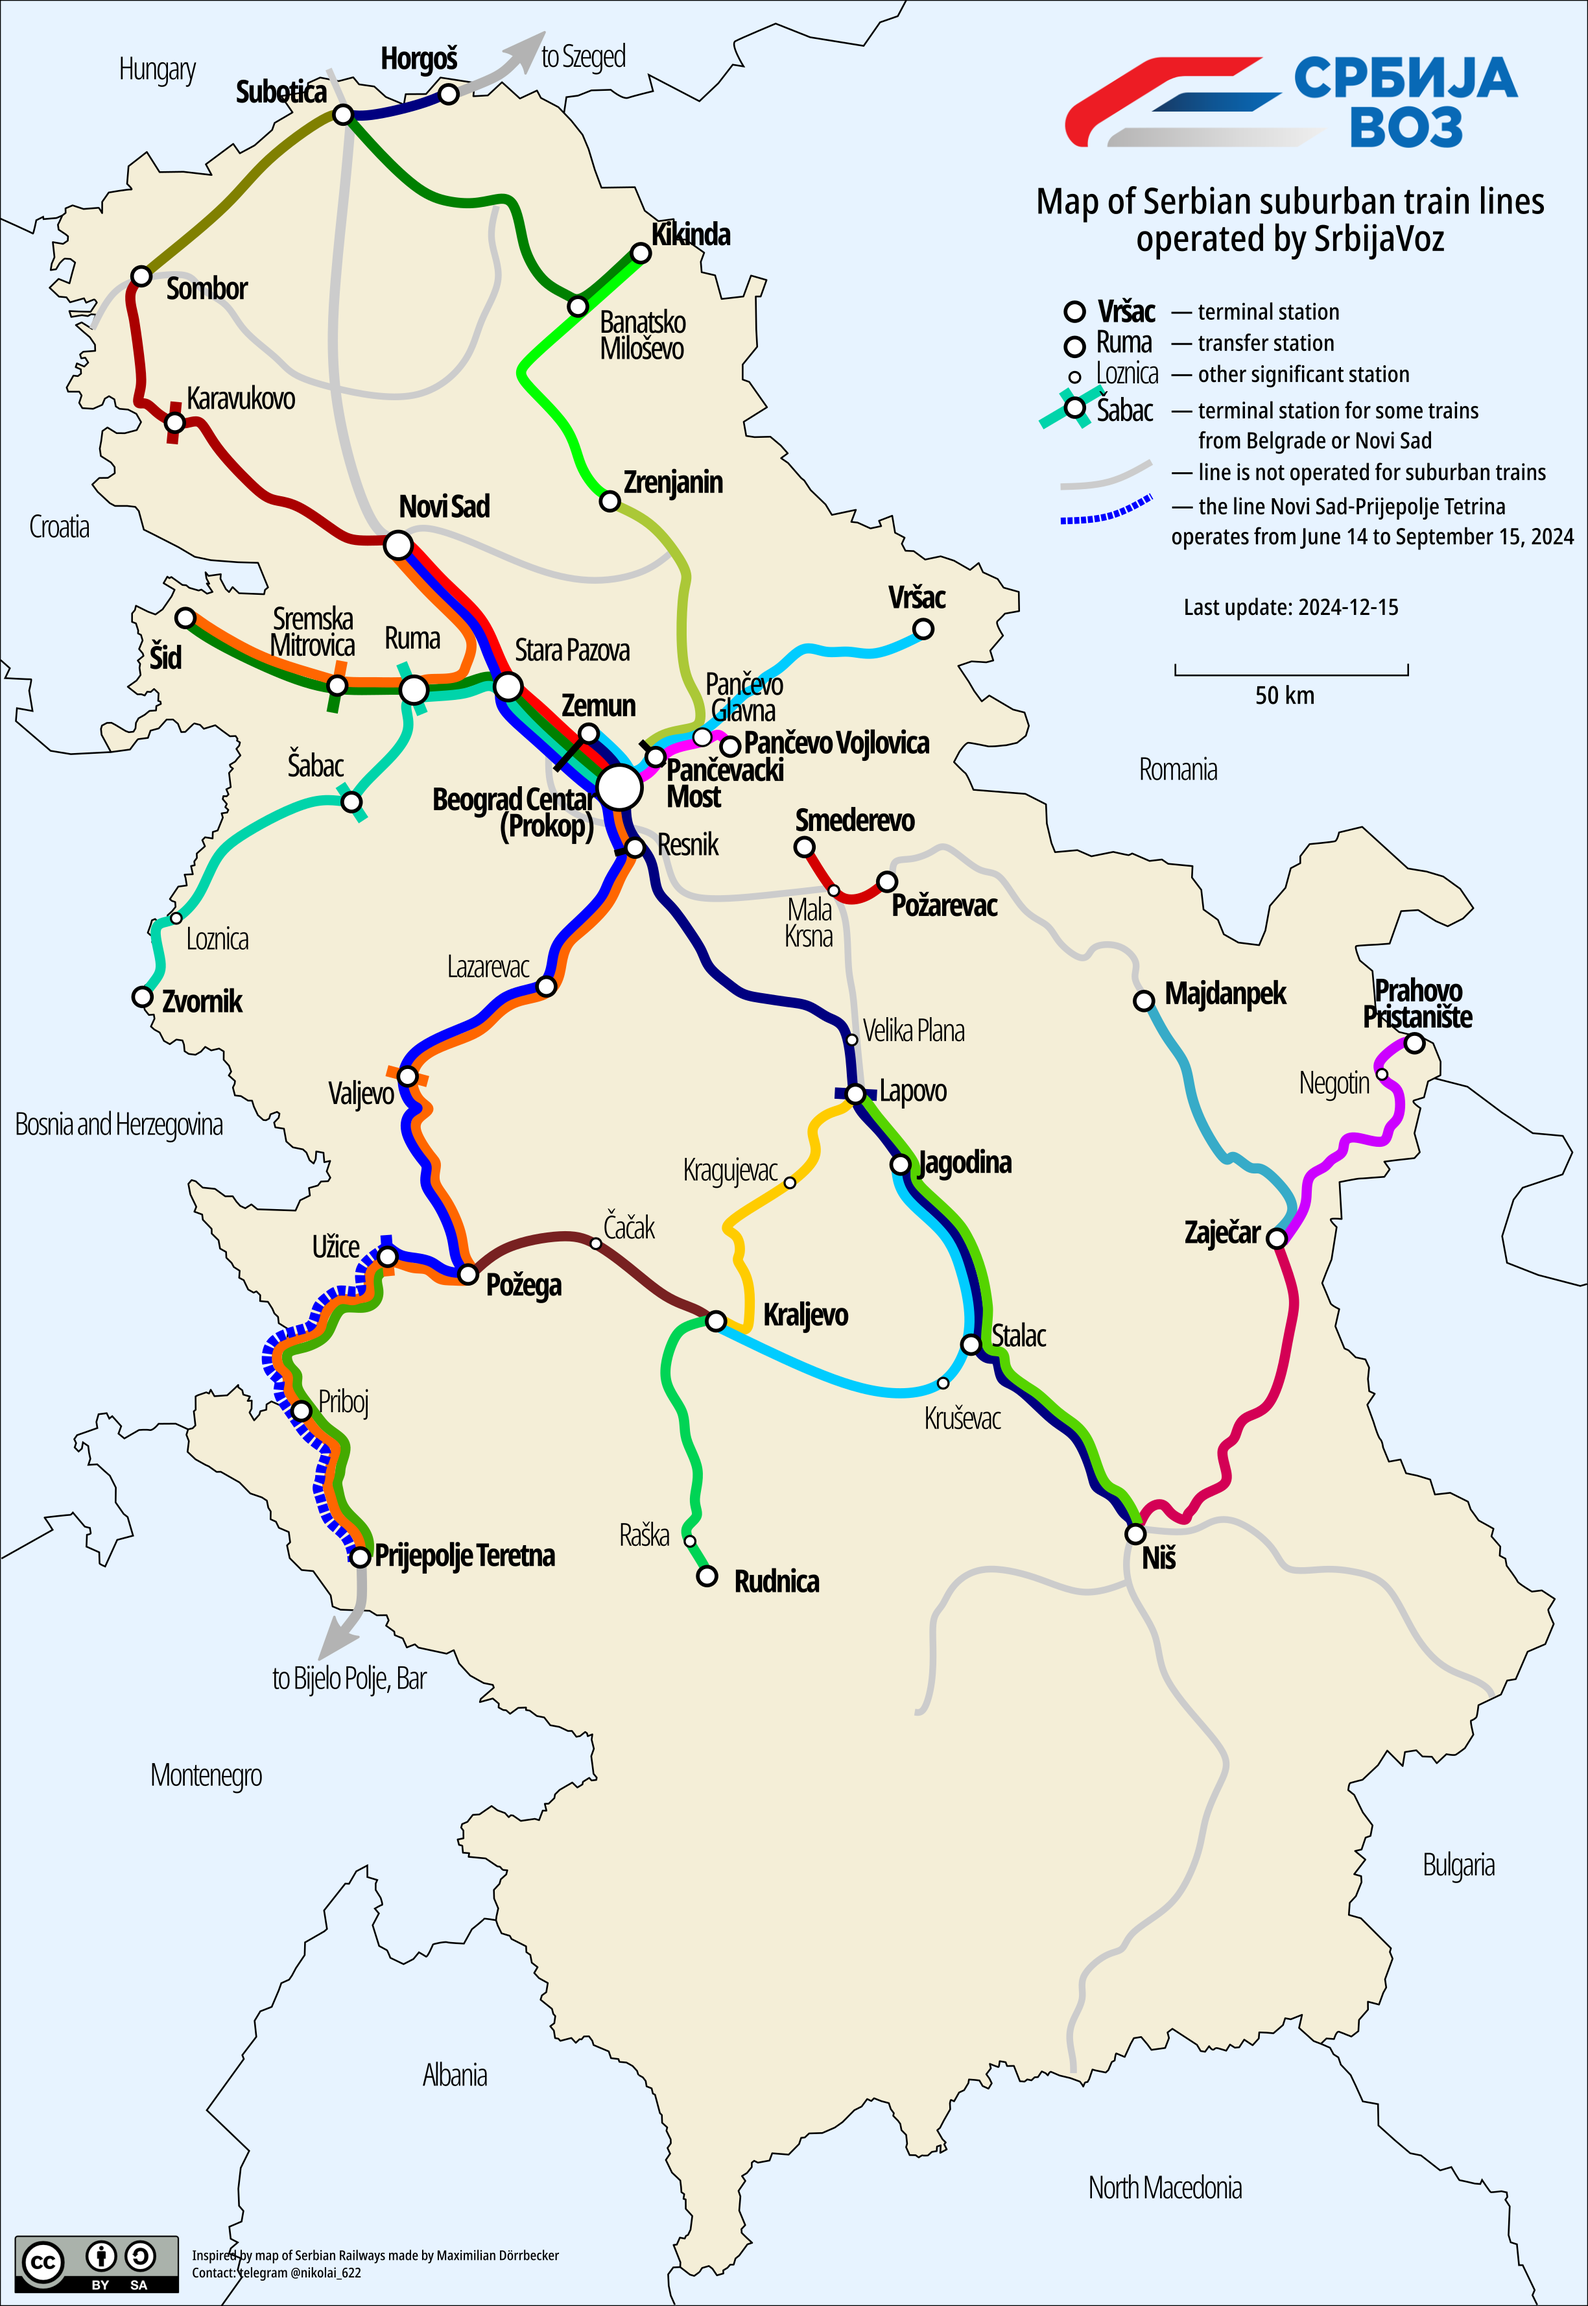
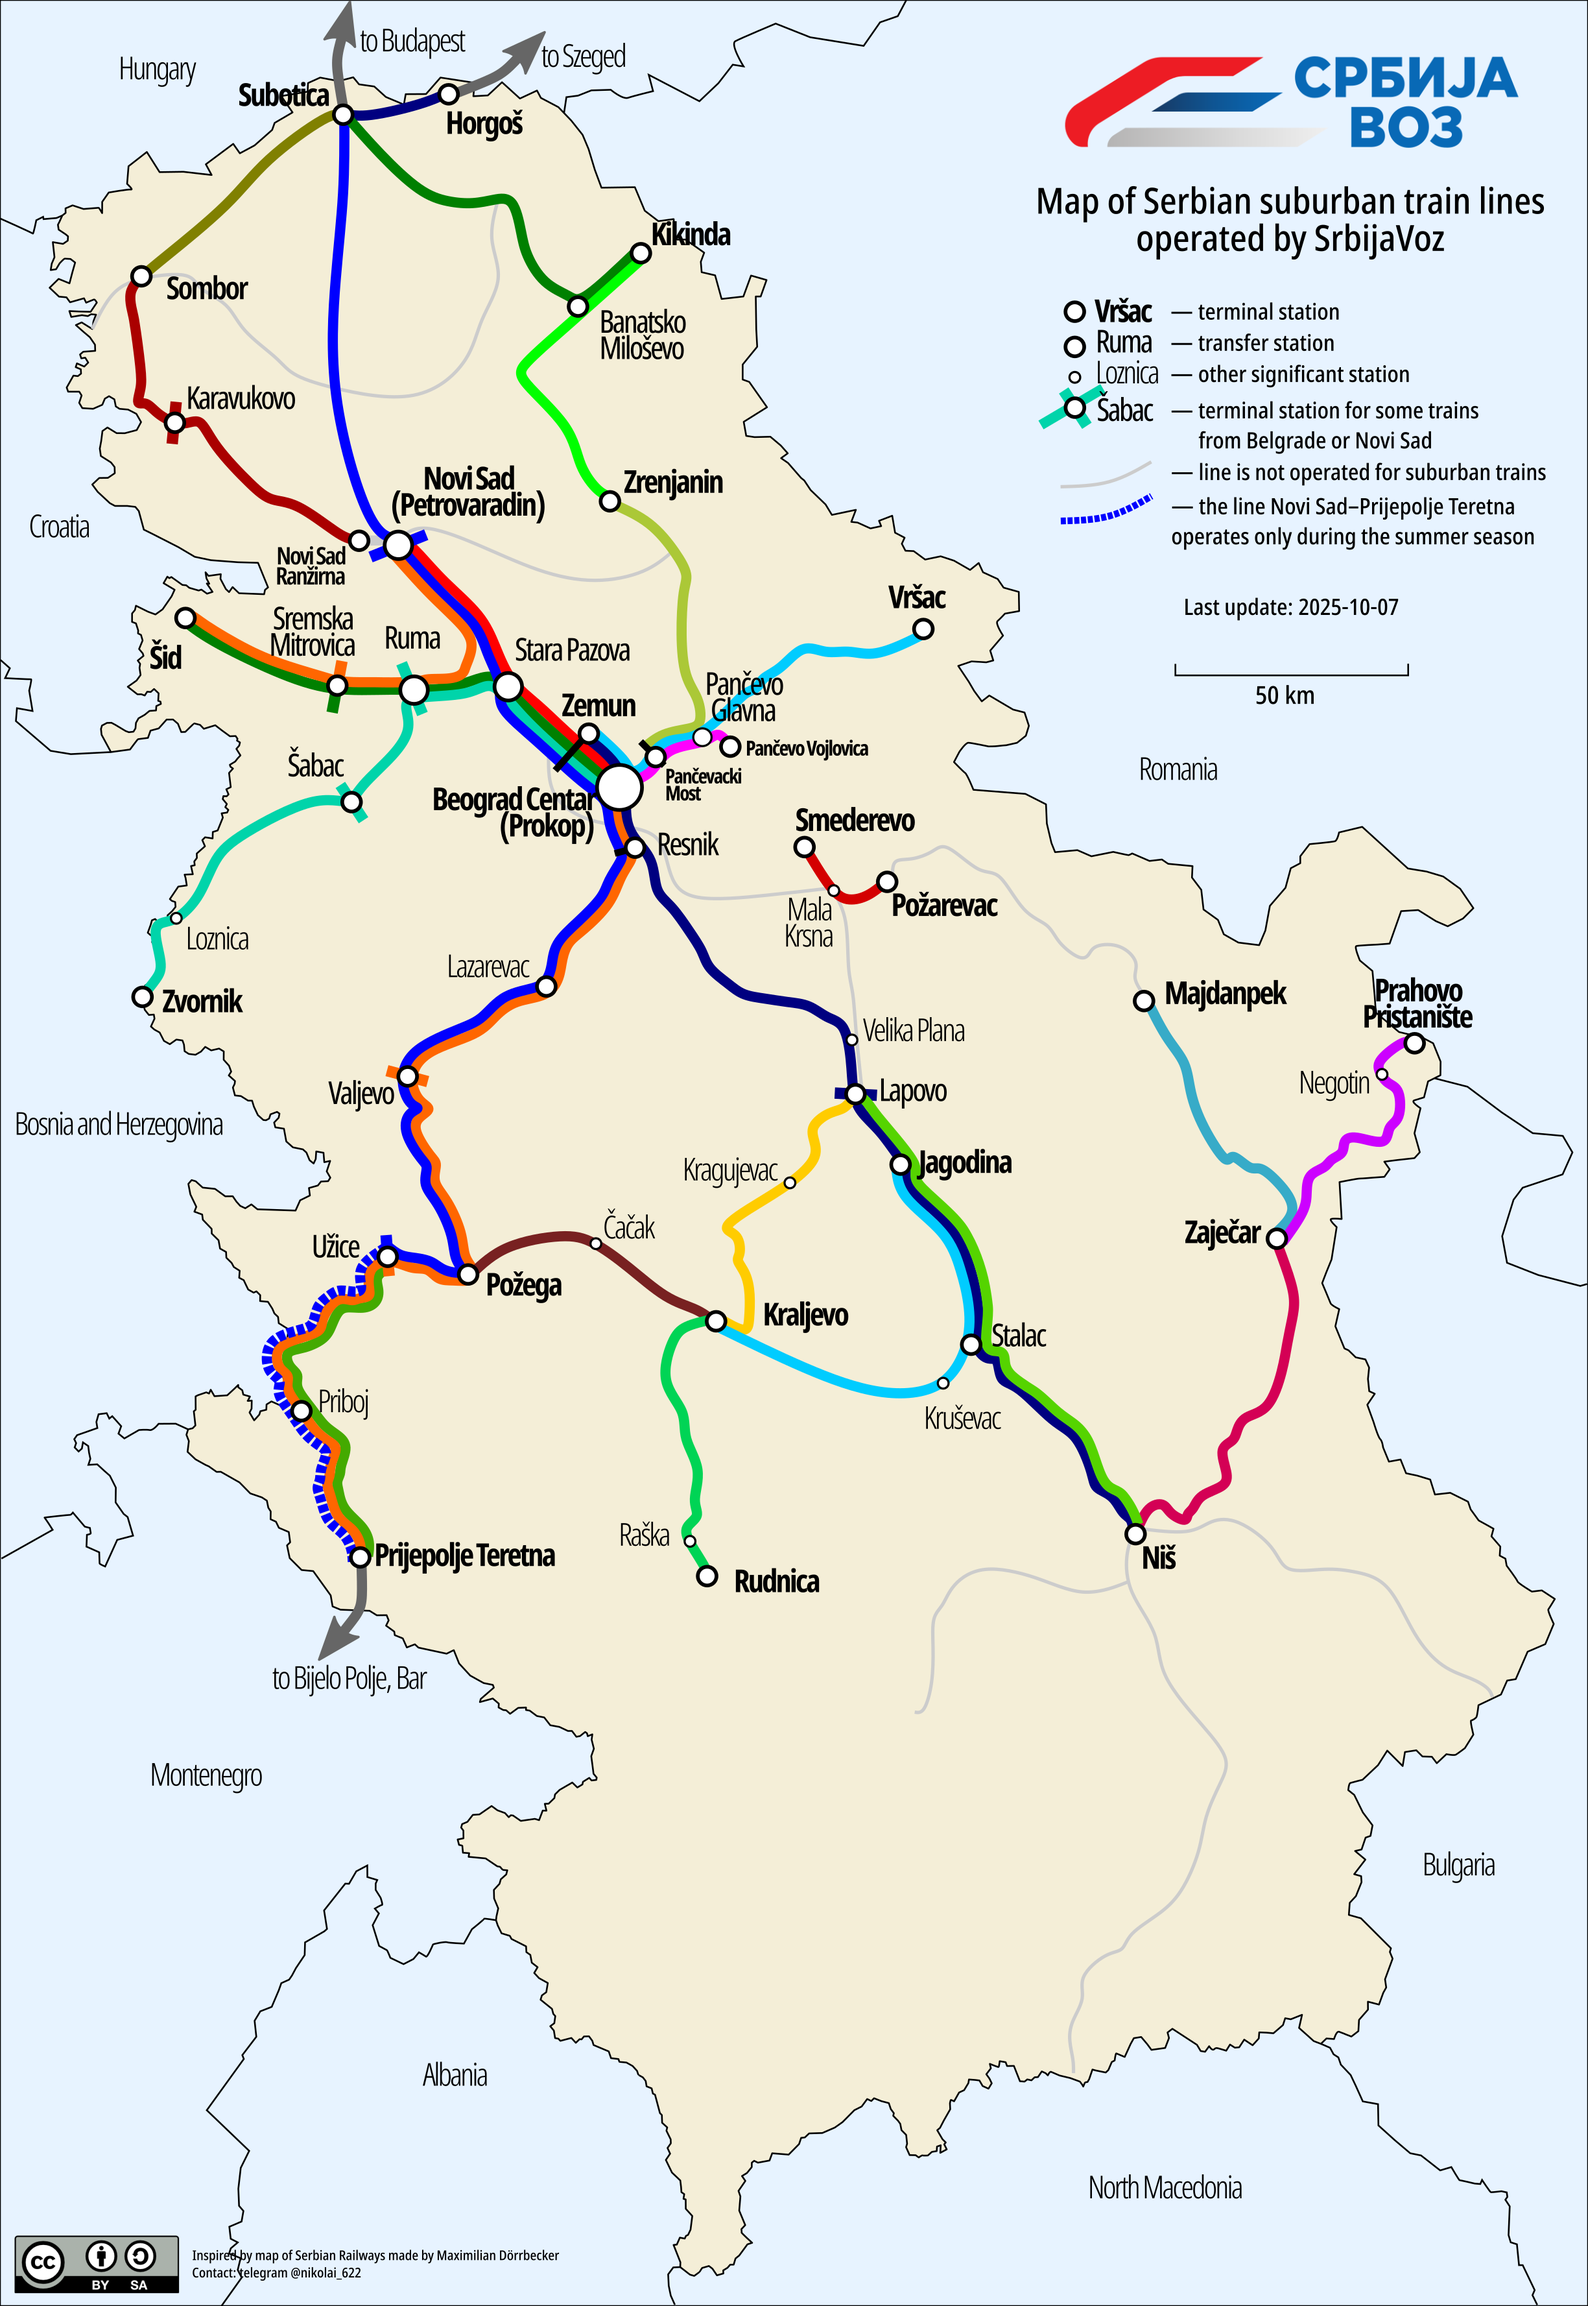
update: line to Subotica is now in operation

diff --git a/README.md b/README.md
@@ -4,7 +4,7 @@ Full size and download: https://serbian-railways.netlify.app/map.png
 
 <img src="https://serbian-railways.netlify.app/map.png" width="200"/>
 
-Last update: 2024-12-15
+Last update: 2025-10-07
 
 Official SrbijaVoz timetable: https://w3.srbvoz.rs/redvoznje
 
